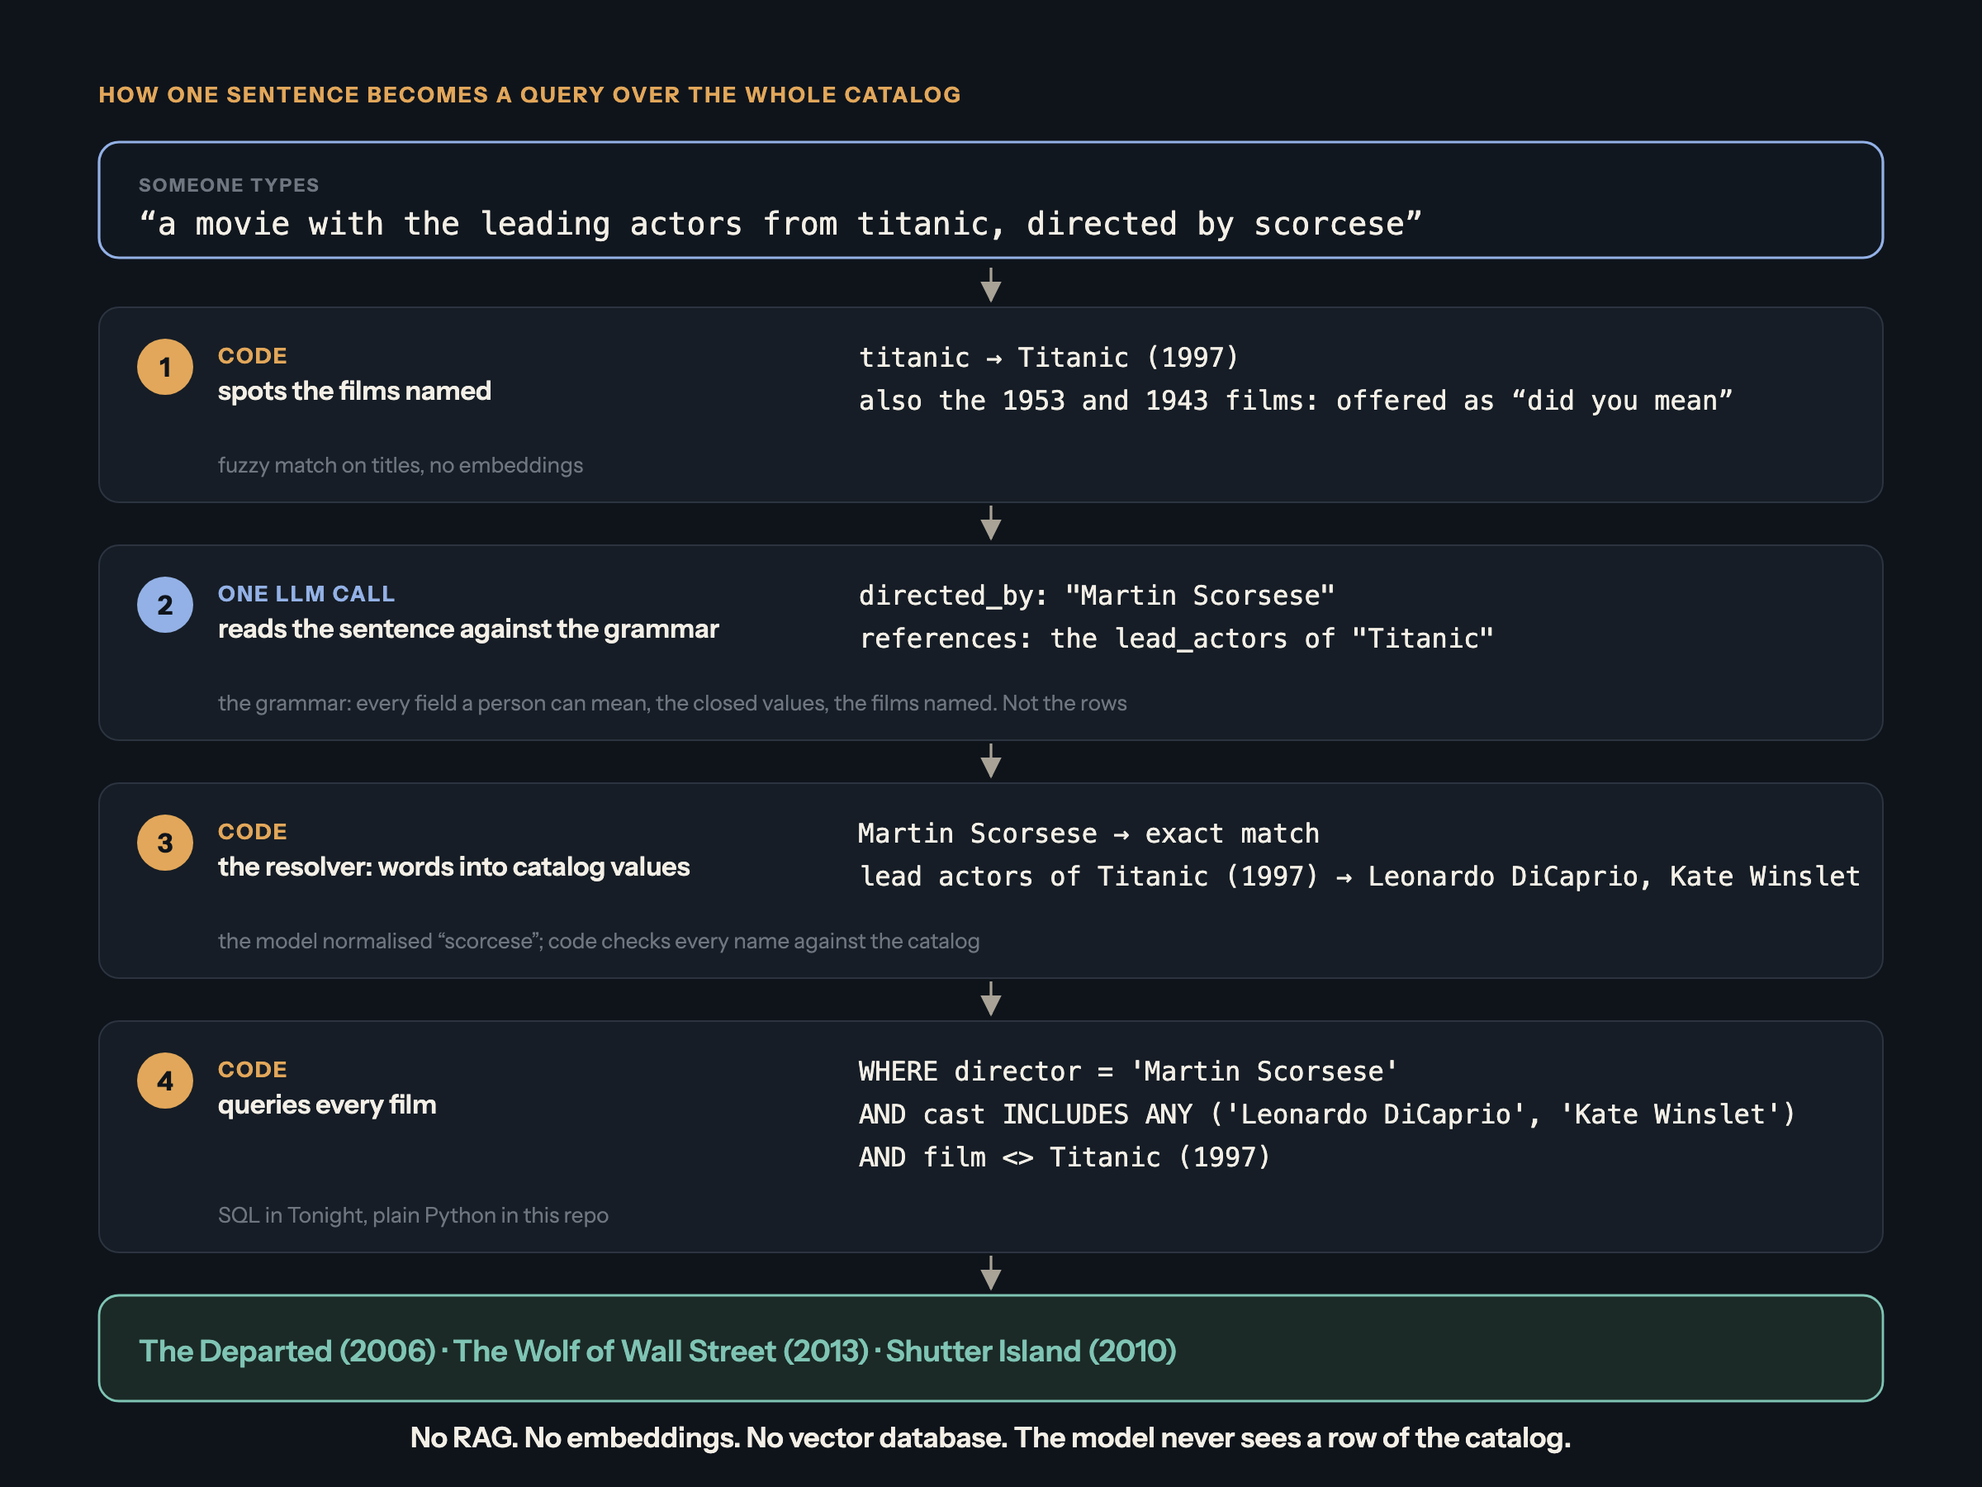
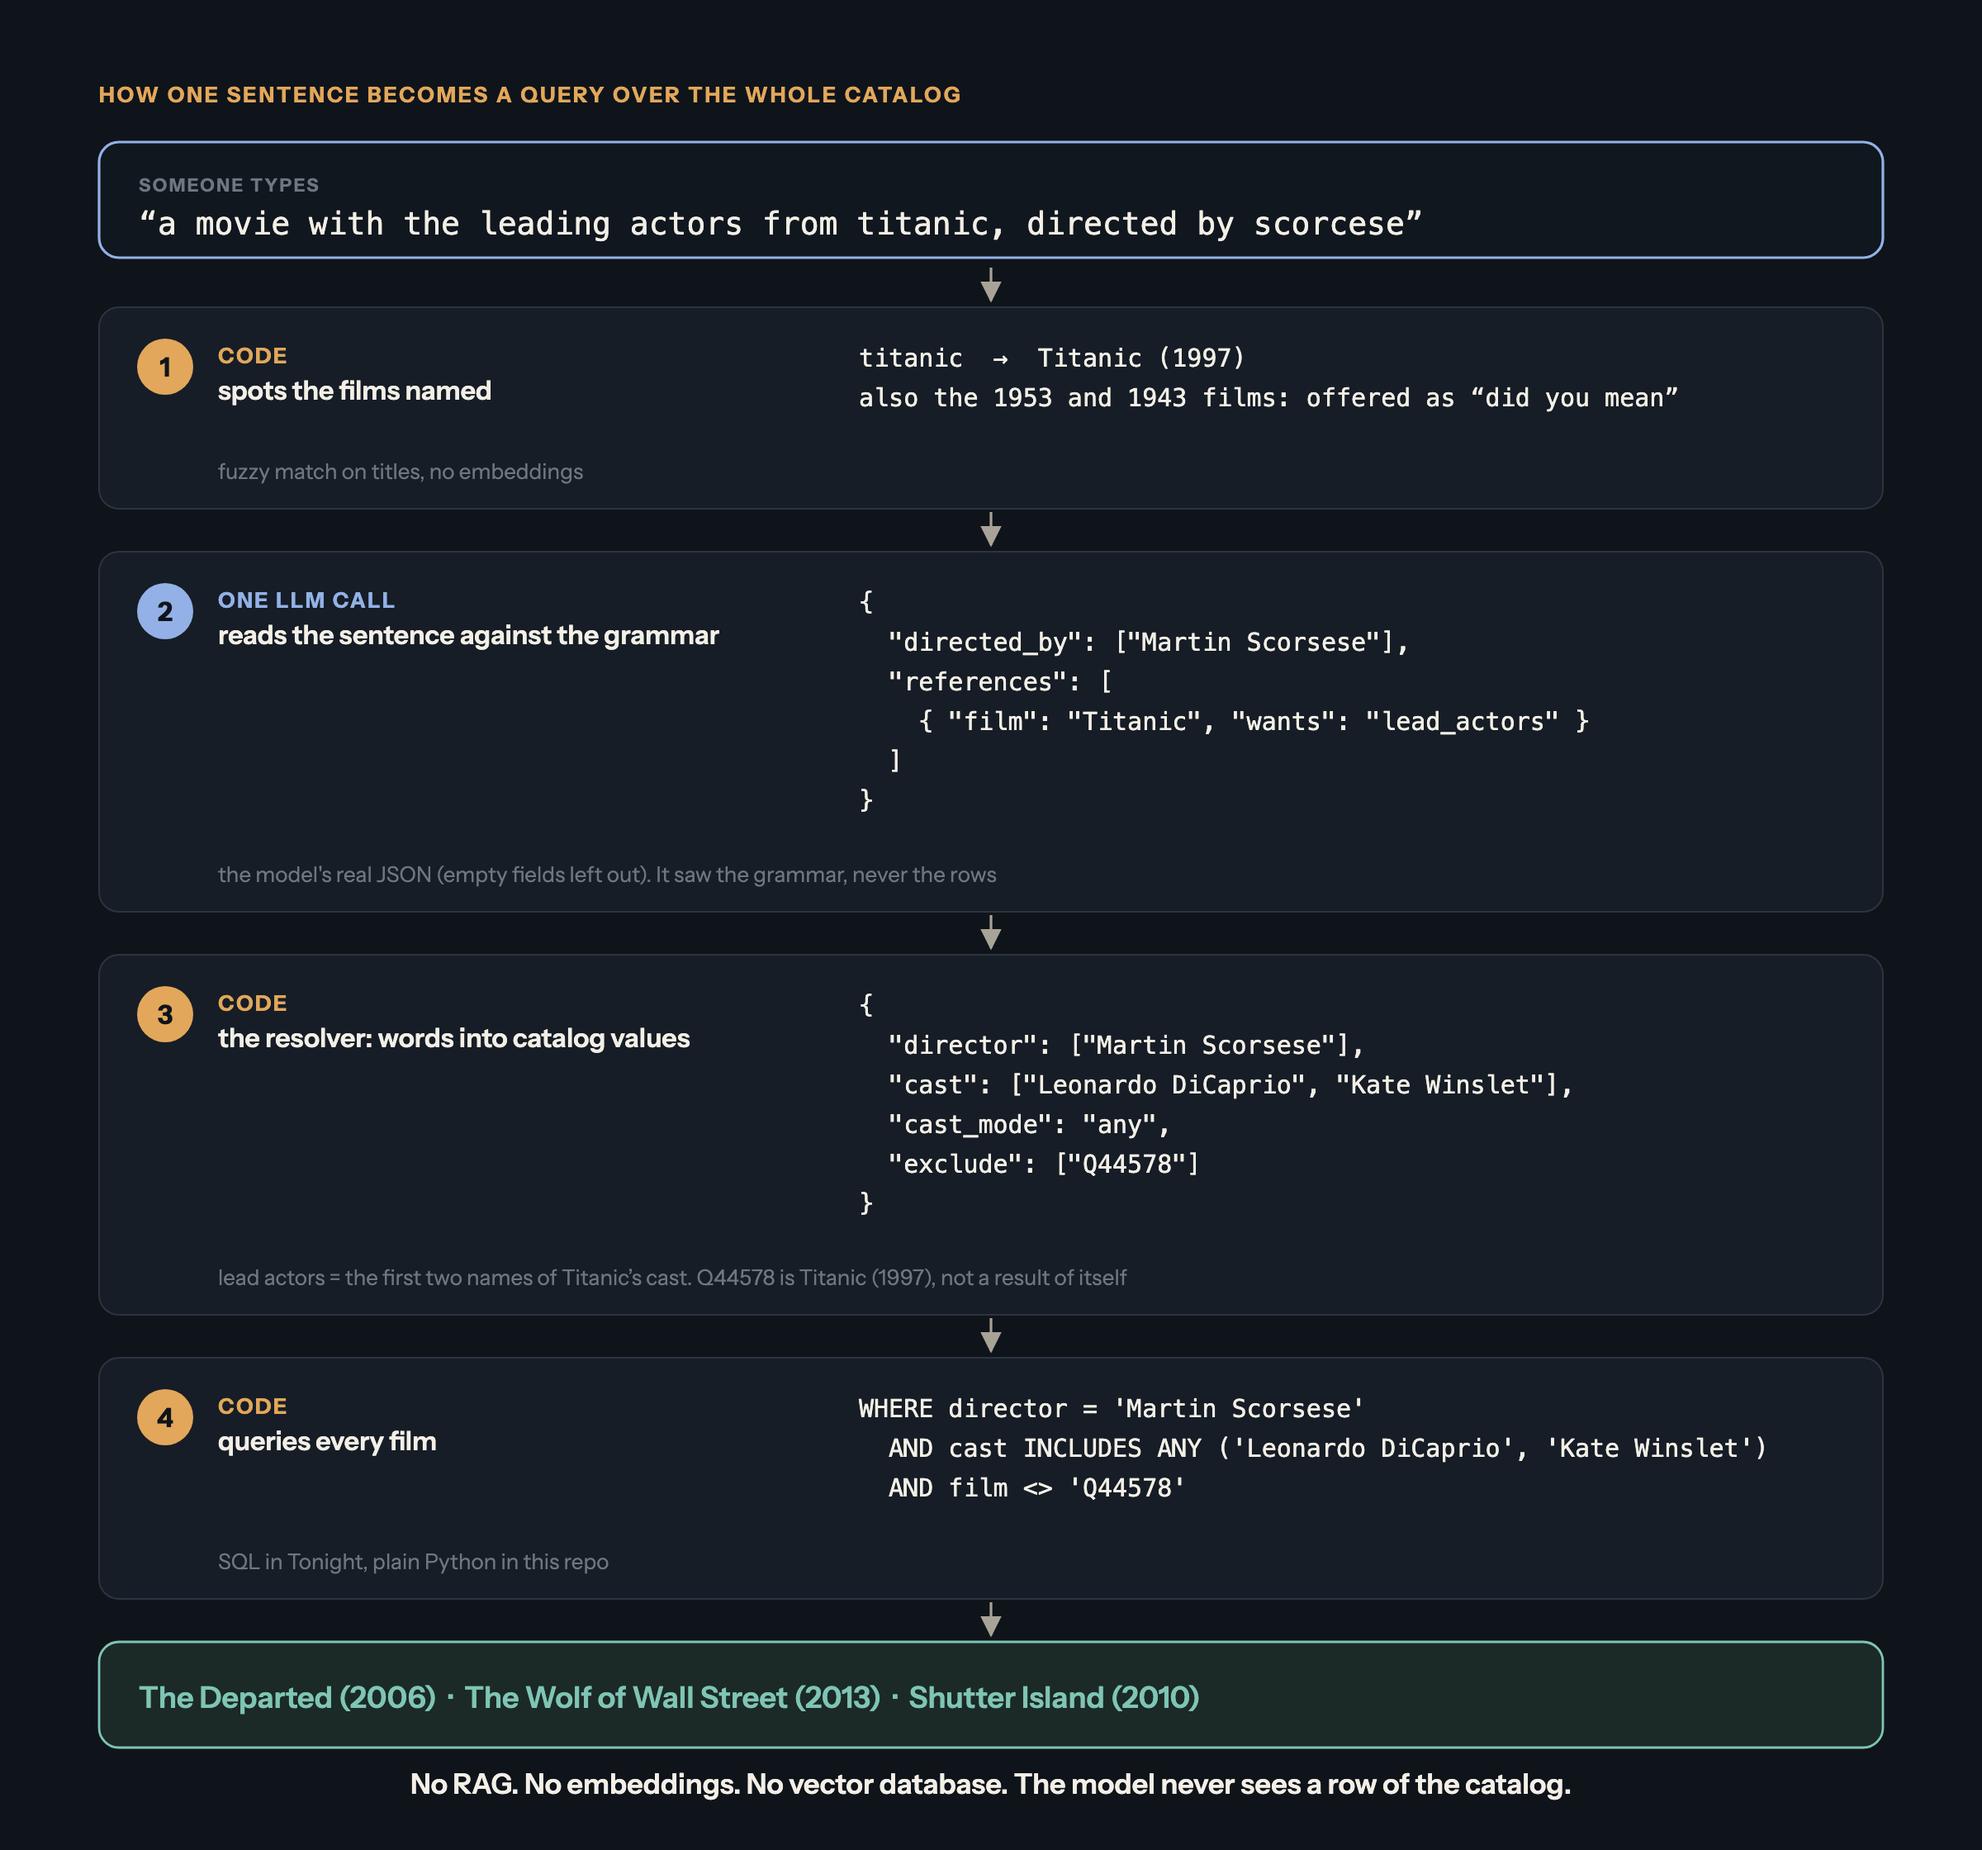
README: How it works in four steps under the diagram (real JSON at each step); packs and data trimmed
Code written by Claude (Opus 5.5), architected and approved by @cornelcroi.

diff --git a/README.md b/README.md
@@ -27,30 +27,27 @@ I tried a prompt with tools first. It failed in the same places every time. The 
 
 Everything you hand the model, you can only **ask**. Everything you keep in code, you can **guarantee**.
 
-## The solution: the search grammar pattern
+## How it works
 
 ![How one sentence becomes a query over the whole catalog: code spots the films named, one LLM call reads the sentence against the grammar, the resolver turns words into catalog values, code queries every film](docs/how-it-works.png)
 
-**The offer, described by its dimensions instead of its rows.**
+**1 · Code spots the films named.** A forgiving search, plain fuzzy matching with no embeddings, finds "titanic" in the sentence and loads what the model needs to know about it. Several matches are never hidden: the others come back as "did you mean".
 
-The model gets a grammar: the fields a person can mean, and the few closed values that exist (19 genres, for example). Not the catalog. It reads the sentence against that grammar and fills the fields. One call, strict JSON. It never searches, never picks an id.
+**2 · One LLM call reads the sentence against the grammar.** The grammar is the offer described by its dimensions instead of its rows: every field a person can mean, plus the few closed values (19 genres). Not the catalog. The model fills the fields as strict JSON. It never searches, never picks an id, never says "I can't".
 
 ![Tonight's 19,072 films as rows (about 1.1 million tokens) or as dimensions (about 3,200 tokens)](docs/rows-vs-dimensions.png)
 
-Measured on Tonight, my movie app, on its real data: 19,072 films on 14 services. As rows, about 1.1 million tokens. As a grammar, about 3,200. The same on every request, so it's cached.
+Measured on Tonight's real data, 19,072 films: about 1.1 million tokens as rows, about 3,200 as a grammar. The same on every request, so it's cached.
 
-**It only works with a forgiving search.** The model writes loose words. Code turns them into the real thing, and says how sure it is:
+**3 · The resolver turns the model's words into catalog values.** The model writes loose words; code finds the real thing and says how sure it is. Without this, the model's words would match nothing.
 
 ```
 "de nino"     ->  Robert De Niro          close
 "godfathr"    ->  The Godfather (1972)    close
 "le parrain"  ->  The Godfather (1972)    exact   every title, in every language
-"titanic"     ->  Titanic (1997)          exact   1953 and 1943 reported, never hidden
 ```
 
-Neither works alone. Without the forgiving search, the model's loose words match nothing. Without the grammar, the model has nothing precise to aim at.
-
-Then code runs the query, and says back what it did: `applied`, `cannot` (with the reason), `unapplied`, `did_you_mean`. The model never says "I can't". Only code does, because only code knows the data.
+**4 · Code queries every film.** The filters run over the whole catalog: SQL in Tonight, plain Python here. Then code says back what it did: applied, cannot (with the reason), not found, did you mean. Only code says "can't", because only code knows the data.
 
 ## Tonight and this repo
 
@@ -78,47 +75,17 @@ PACK         one film's own options, folded into a few lines,  f3 RentBox · ren
              sent only when the sentence names the film                   /theatrical · HD/SD · ...
 ```
 
-The model points into the pack: `film m83, family f3, edition "extended (+37 min)"`. Code finds the real offer, the id and the price. A pointer at a film the sentence did not name is dropped by code.
+The model points into the pack: `film m83, family f3, edition "extended (+37 min)"`. Code finds the real offer, its id and its price. Try "titanic extended cut in french, cheapest" in the demo: "extended cut" becomes the edition only this film has, and code says French audio exists only on another service.
 
-```
-$ python3 -m examples.movies "titanic extended cut in french, cheapest"
-
-2 · CODE, decides what can be applied
-    applied      {"films": ["Titanic"], "prefer": "cheapest", "audio": ["fr"], "edition": ["extended (+37 min)"]}
-    why_nothing  "1 film(s) match (Titanic (1997)), but no single offer has every watch wish at once"
-
-4 · POINTERS, checked against the pack by code
-    partial  Titanic (1997) · RentBox · rent · extended (+37 min) · SD · audio en · stereo · 3.49 €  [of5322]
-             missing  audio French (not with RentBox rent; only on CinePass subscription)
-
-1 model call · 5,547 prompt tokens (5,544 cached) · 209 completion tokens
-```
-
-"extended cut" became the edition only this film has. Then code said exactly what is missing, and where it exists.
-
-The grammar is also **wider than what the system can do**. Each field has a status: `ready` (code applies it), `dictionary` (the model says a neutral fact like "age 6", code decides what it means here), `later` (understood, not possible yet, with a reason). Nothing is dropped silently, and the list of `cannot` is your roadmap.
+Each field also has a status: `ready` (code applies it), `dictionary` (the model says a neutral fact like "age 6", code decides what it means here), `later` (understood, not possible yet, with the reason). Nothing is dropped silently.
 
 ## The data
 
-`data/films.json`: 200 real films from Wikidata (CC0). For each: title, French title, original title, year, runtime, directors, the first 8 actors in billing order, genres, topics, countries, languages, and the TMDB poster path for the web demo (`scripts/add_posters.py`).
+`data/films.json`: 200 real films from Wikidata (CC0): titles in three forms, year, runtime, directors, the first 8 actors, genres, topics, countries, languages, and the TMDB poster path. Mostly famous American and English-language films from 1990 to 2019, 32 French, one Korean (Parasite), and three films called Titanic on purpose, so a title can be ambiguous.
 
-- **Years** 1925 to 2023, mostly 1990 to 2019.
-- **Mostly American and English-speaking** (167 US, 185 with English). 32 French, a few Italian, German, Japanese, one Korean (Parasite).
-- **Directors with several films:** Spielberg and Nolan (9 each), Scorsese, Cameron, Tarantino, Peter Jackson (5), Truffaut, Kubrick, Coppola, Lucas, Ridley Scott (4).
-- **Three films called Titanic** (1943, 1953, 1997), on purpose, so a title can be ambiguous.
+`data/offers.json`: 17,262 ways to watch them, **invented**: 8 fictional services, buy, rent, subscription or free, editions, HD, 4K or SD, audio and subtitles, prices from 0 to 18.99 €.
 
-`data/offers.json`: 17,262 ways to watch them, **invented**. 8 fictional services, buy, rent, subscription or free, editions, HD, 4K or SD, audio and subtitle languages, prices from 0 to 18.99 €.
-
-With 200 films, a search can be read right and still find little. Code says it:
-
-```
-"a Truffaut film in French"   ->  4 films: The 400 Blows, Stolen Kisses, Jules and Jim, Day for Night
-"a Korean thriller"           ->  1 film: Parasite, the only Korean thriller here
-"a Wes Anderson comedy"       ->  unapplied ["Wes Anderson"], did_you_mean ["Paul Anderson"]
-                                  No Wes Anderson film in the 200. Code says so, then shows comedies.
-```
-
-Good searches here: the famous films, Nolan, Spielberg, Tarantino, the French classics, the actors of Titanic or The Godfather, editions, 4K, French audio, a price. For a bigger catalog, raise the counts in `scripts/build_catalog.py`, then run it and `scripts/generate_offers.py`.
+With 200 films, a search can be read right and still find little, and code says so ("a Wes Anderson comedy": not in these 200 films). Good searches here: the famous films, Nolan, Spielberg, Tarantino, the French classics, the actors of Titanic or The Godfather, editions, 4K, French audio, a price. For a bigger catalog, raise the counts in `scripts/build_catalog.py`, then run it and `scripts/generate_offers.py`.
 
 ## Run it
 
